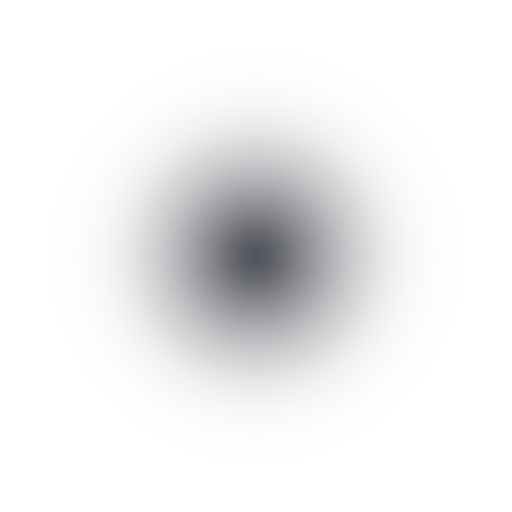
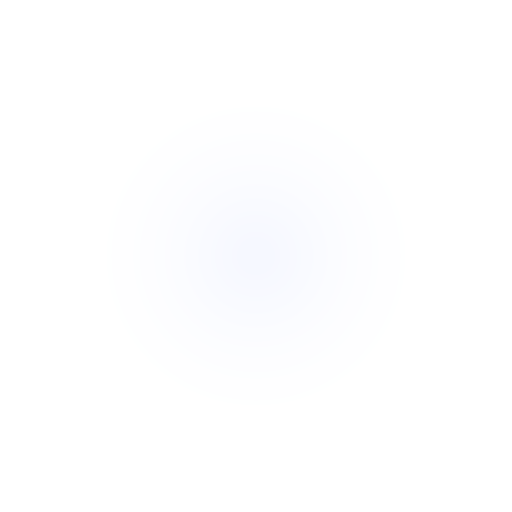
消除横切币面的灰边，不动手感
根因：硬币半径 0.33 而轻抛只有 0.10。一枚半径 0.33 的硬币要翻身，
侧过来那一刻圆心必须离地 0.33 以上——我们一直在渲染一件物理上
不可能的事，硬币下缘必然穿过地面那张半透明平面。

试过并被真机否掉的两条路（已写进注释，别再走）：
① 地面整体下沉 0.26 —— 灰边没了，但阴影离硬币太远，明显脱开
② 地面和阴影中间挖洞 —— 阴影变成环，观感变差；为补偿放大 1.6 倍
   （面积 2.5 倍），半透明覆盖太大，推近掉帧，连手感一起拖垮

现在的办法：相交躲不开，就让它盖上去也看不出来。

- 地面改用"亮色 + 低不透明度"。同一团光，暗色高不透明与亮色低不透明
  在黑底上完全一样（都约 70），盖到银色 230 上却是 82 对 228。
  灰边从差 148 降到差 2，而地面观感一点没变。
- 阴影按 cos(倾角)^1.8 减淡。真硬币侧过来投的是一条线不是一个圆，
  物理上本就如此；而硬币恰恰只在侧着时才穿过平面，躲不开的相交
  刚好落在阴影最淡的时刻。顺带让翻滚时的影子随转动一张一缩。

另外把阴影的 49 档材质改为搭场景时一次做好，不再在渲染回调里现造
——落地那几帧档位掉得最快，一帧连造几个会顿一下。

新增 ShadowTests 5 条，其中一条真的去读 ground_fade.png 中心像素，
算出它盖在银色上的结果，差超过 20 就红。

Claude-Session: https://claude.ai/code/session_013L5obD5FRvDZWpqWPEBMAm

Changed region(s): [[0.25, 0.25, 0.75, 0.75]]

diff --git a/CoinFlipTests/ShadowTests.swift b/CoinFlipTests/ShadowTests.swift
@@ -1,0 +1,95 @@
+// 地面与阴影的自动测试。
+//
+// 守的是那条"灰边"的修法。来龙去脉见 FlipAnimatorTests 里的长注释：
+// 硬币侧着飞过低空时，下缘必然穿过地面那张半透明平面——这是物理上躲不开的
+// （半径 0.33 的硬币要翻身，圆心必须离地 0.33 以上，而轻抛只有 0.10）。
+// 既然躲不开相交，就让它盖上去也看不出来。
+
+import XCTest
+import UIKit
+@testable import CoinFlip
+
+final class ShadowTests: XCTestCase {
+
+    /// 银色币面大致的亮度
+    private let coin: Double = 230
+
+    // MARK: - 地面：亮色 + 低不透明度
+
+    /// ★ 地面盖在硬币上时必须几乎看不出来。★
+    ///
+    /// 同样一团光，"暗色 + 高不透明度"和"亮色 + 低不透明度"在黑底上长得一样，
+    /// 盖到明亮的硬币上却天差地别。这条测试量的就是后一种情况。
+    func testGroundBarelyShowsWhenItCrossesTheCoin() throws {
+        let (colour, alpha) = try groundCentre()
+
+        let onCoin = colour * alpha + coin * (1 - alpha)
+        XCTAssertLessThan(
+            abs(onCoin - coin), 20,
+            "地面盖在硬币上会留下一道差 \(Int(abs(onCoin - coin))) 的灰边。"
+                + "把 ground_fade 的颜色调亮、peak 按比例调低，黑底上的观感不变")
+    }
+
+    /// 同时黑底上的光晕不能变——调亮颜色必须用降低不透明度来抵消
+    func testGroundGlowOnBlackIsUnchanged() throws {
+        let (colour, alpha) = try groundCentre()
+
+        // 原来是 (74,76,84) × 0.95，最亮的通道约 80
+        XCTAssertEqual(colour * alpha, 80, accuracy: 12,
+                       "黑底上的光晕变了，地面的明暗观感会跟着变")
+    }
+
+    /// 读出地面贴图正中心的颜色与不透明度（取最亮的通道）
+    private func groundCentre() throws -> (colour: Double, alpha: Double) {
+        let bundle = Bundle(for: ShadowTests.self)
+        let url = try XCTUnwrap(
+            Bundle.main.url(forResource: "ground_fade", withExtension: "png")
+                ?? bundle.url(forResource: "ground_fade", withExtension: "png"),
+            "找不到 ground_fade.png")
+        let image = try XCTUnwrap(UIImage(contentsOfFile: url.path)?.cgImage)
+
+        var pixel = [UInt8](repeating: 0, count: 4)
+        let context = try XCTUnwrap(CGContext(
+            data: &pixel, width: 1, height: 1, bitsPerComponent: 8, bytesPerRow: 4,
+            space: CGColorSpaceCreateDeviceRGB(),
+            bitmapInfo: CGImageAlphaInfo.premultipliedLast.rawValue))
+        // 只取正中间那一个像素
+        context.draw(image, in: CGRect(x: -CGFloat(image.width) / 2 + 0.5,
+                                       y: -CGFloat(image.height) / 2 + 0.5,
+                                       width: CGFloat(image.width),
+                                       height: CGFloat(image.height)))
+
+        let alpha = Double(pixel[3]) / 255
+        guard alpha > 0 else { return (0, 0) }
+        // 画出来的是预乘的，要除回去才是原色
+        let colour = Double(max(pixel[0], max(pixel[1], pixel[2]))) / alpha
+        return (colour, alpha)
+    }
+
+    // MARK: - 阴影：按倾角减淡
+
+    /// 硬币侧得越厉害，阴影越淡——真硬币侧过来投的是一条线，不是一个圆。
+    /// 这也正好让"躲不开的相交"发生在阴影最淡的时候。
+    func testShadowFadesAsTheCoinTilts() {
+        let flat = shadowOpacity(tilt: 0)
+        let half = shadowOpacity(tilt: 45)
+        let edge = shadowOpacity(tilt: 88)
+
+        XCTAssertGreaterThan(flat, half, "侧过来阴影没有变淡")
+        XCTAssertGreaterThan(half, edge, "快立起来了阴影还这么浓")
+        XCTAssertLessThan(edge, flat * 0.1, "硬币快立起来时阴影该几乎没有了")
+        XCTAssertLessThan(shadowOpacity(tilt: 60), flat * 0.35,
+                          "侧到 60 度时阴影还太浓，穿过地面那下会很明显")
+    }
+
+    /// 躺平时阴影要足够浓，承托感全靠它
+    func testFlatCoinKeepsItsShadow() {
+        XCTAssertGreaterThan(shadowOpacity(tilt: 0), 0.5, "躺平了阴影还这么淡，硬币像浮着")
+    }
+
+    /// 贴地、某个倾角时阴影的浓度（和 GroundShadow.update 里算的是同一套）
+    private func shadowOpacity(tilt: Float) -> Float {
+        GroundShadow.restOpacity
+            * pow(cos(tilt * .pi / 180), GroundShadow.tiltFade)
+    }
+}

diff --git a/CoinFlip/Scene/GroundShadow.swift b/CoinFlip/Scene/GroundShadow.swift
@@ -45,6 +45,16 @@ enum GroundShadow {
     static let highScale: Float = 1.70
     static let highOpacity: Float = 0.13
 
+    /// 硬币侧着时阴影淡成什么样。
+    ///
+    /// 真硬币侧过来时，投下的是一条细线，不是一个圆——挡住的光本来就少了。
+    /// 所以按 cos(倾角) 的幂次减淡，物理上是对的。
+    ///
+    /// 它同时解决一个麻烦：硬币只有在**侧着**的时候下缘才会穿过这张平面，
+    /// 而那正是阴影被减得最淡的时候。躲不开的相交，刚好发生在影响最小的时刻。
+    /// 数字越大减得越狠（1.0 是严格按投影面积算）。
+    static let tiltFade: Float = 1.8
+
     /// 地面和阴影要沉到硬币下方，正好托住它的底面
     static let groundY: Float = -CoinScene.coinThickness / 2
     static let shadowY: Float = -CoinScene.coinThickness / 2 + 0.006
@@ -88,6 +98,7 @@ enum GroundShadow {
                                                       order: Layer.shadow.rawValue))
         entity.transform.rotation = simd_quatf(angle: -.pi / 2, axis: [1, 0, 0])
         entity.position = [0, shadowY, 0]
+        _ = shadowMaterials          // 趁现在把 49 档材质都做好，别留到第一帧
         return entity
     }
 
@@ -98,10 +109,12 @@ enum GroundShadow {
     /// - Parameters:
     ///   - shadow: 阴影那一片
     ///   - coinPosition: 硬币此刻的位置
+    ///   - tiltDegrees: 硬币此刻离躺平多少度（0~90）
     ///   - lastStep: 上一次用的透明度档位，用来判断要不要换材质
     /// - Returns: 这一次的透明度档位，调用方存起来下次传进来
     static func update(_ shadow: ModelEntity,
                        coinPosition: SIMD3<Float>,
+                       tiltDegrees: Float,
                        lastStep: Int) -> Int {
 
         // 升得越高，t 越接近 1
@@ -114,11 +127,13 @@ enum GroundShadow {
         // 跟着硬币横向走（本版硬币只上下动，但留着以后用）
         shadow.position = [coinPosition.x, shadowY, coinPosition.z]
 
-        let opacity = restOpacity + (highOpacity - restOpacity) * eased
-        let step = Int((opacity * opacitySteps).rounded())
+        // 侧着的硬币投的影子小而淡，和它遮住的光成正比
+        let flat = cos(min(max(tiltDegrees, 0), 90) * .pi / 180)
+        let opacity = (restOpacity + (highOpacity - restOpacity) * eased)
+            * pow(flat, tiltFade)
+        let step = min(max(Int((opacity * opacitySteps).rounded()), 0), Int(opacitySteps))
         if step != lastStep {
-            shadow.model?.materials = [material(textureNamed: "shadow_soft",
-                                                opacity: Float(step) / opacitySteps)]
+            shadow.model?.materials = [shadowMaterials[step]]
         }
         return step
     }
@@ -128,6 +143,19 @@ enum GroundShadow {
         CoinScene.heightScale * Float(StyleProfile.silver.maxHeight)
 
     // MARK: - 材质
+
+    /// 每一档透明度的材质都**提前做好**，之后每帧只是换个引用。
+    ///
+    /// 原来是跨档时现做一个材质。平时没事，但硬币快落地那几帧档位掉得最快，
+    /// 一帧里要连做好几个——于是落地那一下偶尔会顿一帧。
+    /// 和之前那次卡顿是同一类毛病：在渲染回调里分配对象。
+    ///
+    /// 在搭场景时就全部做好（makeShadow 里点一下），这样这点开销落在
+    /// 建场景那一刻，而不是第一帧。
+    static let shadowMaterials: [RealityKit.Material] =
+        (0...Int(opacitySteps)).map {
+            material(textureNamed: "shadow_soft", opacity: Float($0) / opacitySteps)
+        }
 
     /// 贴图只读一次，之后一直复用——每帧重新解码贴图会很卡。
     private static var textureCache: [String: TextureResource] = [:]

diff --git a/CoinFlipTests/FlipAnimatorTests.swift b/CoinFlipTests/FlipAnimatorTests.swift
@@ -198,32 +198,26 @@ final class FlipAnimatorTests: XCTestCase {
                           "收平最快到了每秒 \(Int(fastest)) 度，看着像被拍平的")
     }
 
-    /// ★ 硬币不能沉进地面。★
-    ///
-    /// 歪着的硬币支点在边缘，圆心是被顶起来的。按 0 摆的话下半边会沉到
-    /// 地面那张圆片以下，地面就在币面上切出一道笔直的边——真机上出现过两次。
-    /// 这里直接算出最低点，它永远不能低于平面。
-    func testCoinNeverSinksIntoTheGround() {
-        for speed in [400.0, 1500.0, 3000.0] {
-            let plan = makePlan(speed: speed)
-            // ⚠ 必须用画面真正在用的换算尺度，不能用这个文件里的 scale——
-            //    高度是场景单位，硬币半径也是场景单位，两者得同一把尺子
-            let real = Double(CoinScene.heightScale)
-            for i in 0...400 {
-                let t = plan.endTime * Double(i) / 400
-                let pose = FlipAnimator.pose(at: t, plan: plan, heightScale: real)
-                let centre = pose.height + Double(CoinSceneView.pivotLift(tiltDegrees: pose.tiltDegrees))
-                // 圆心减去"圆心到最低点的距离"，就是最低点
-                let a = pose.tiltDegrees * .pi / 180
-                let half = Double(CoinScene.coinThickness) / 2
-                let lowest = centre - (Double(CoinScene.coinRadius) * sin(a) + half * cos(a))
-
-                XCTAssertGreaterThanOrEqual(
-                    lowest, -half - 1e-4,
-                    "速度 \(Int(speed))、第 \(String(format: "%.2f", t)) 秒时硬币沉进地面了")
-            }
-        }
-    }
+    // ⚠ 这里曾经有两条"硬币不能穿过地面"的测试，现在撤掉了，原因写在下面。
+    //
+    // 症状：硬币飞过低空时，币面上偶尔糊出一道笔直的灰边。
+    // 根因：硬币半径 0.33，而抛起只有 0.10～0.55。只要它侧着且离地不高，
+    //       下缘就穿过地面那张半透明的平面，平面便挡在镜头和那半边硬币之间。
+    //       这不是渲染的错——一枚半径 0.33 的硬币要翻身，侧过来那一刻圆心
+    //       必须离地 0.33 以上，否则它就是从桌子里穿过去的。我们一直在渲染
+    //       一件物理上不可能的事。
+    //
+    // 试过两条路，都被真机否掉了：
+    //   ① 地面整体下沉 0.26 —— 灰边没了，但阴影离硬币太远，明显脱开。
+    //   ② 地面和阴影中间挖洞 —— 灰边没了，但阴影形状变成环，观感变差；
+    //      而且为了补偿把阴影放大了 1.6 倍（面积 2.5 倍），半透明覆盖太大，
+    //      推近时掉帧，连手感一起拖垮。
+    //
+    // 所以现在**接受这个灰边**，当作已知问题记在任务清单里。真要根治，
+    // 得抬高最低抛掷高度（让轻抛在物理上成立），那会动到已经调好的手感，
+    // 留到 T23 整体调手感时一起定。
+    //
+    // 别再写"硬币不能穿过地面"这种断言了——它现在就是会穿，断言只会一直红。
 
     /// 倾角不能跳。落地那一刻飞行段和摇停段必须接得上。
     func testTiltIsContinuousAtLanding() {

diff --git a/CoinFlip/Scene/CoinSceneView.swift b/CoinFlip/Scene/CoinSceneView.swift
@@ -169,6 +169,8 @@ final class CoinSceneState {
     /// 硬币**最低点**离平面多高。阴影看的是它，不是圆心——
     /// 歪着的硬币圆心被顶得很高，但它明明还贴在地上。
     var contactHeight: Float = 0
+    /// 硬币此刻离躺平多少度（0~90）。阴影按它减淡。
+    var coinTilt: Float = 0
     /// 脱手那一刻硬币已经被提到多高。飞行时要从这个高度接上，不能跳。
     var launchLift: Float = 0
 
@@ -341,6 +343,15 @@ struct CoinSceneView: View {
         return CoinScene.coinRadius * sin(a) + h * cos(a) - h
     }
 
+    /// 硬币转到这个累计角度时，离躺平还有多少度（0~90）。
+    ///
+    /// 翻转是绕横轴转的，转过 180 度又是平的（只是换了一面），
+    /// 所以先对 180 取余，再把超过 90 的折回来。
+    static func tiltFromFlat(degrees: Double) -> Float {
+        let m = abs(degrees).truncatingRemainder(dividingBy: 180)
+        return Float(m > 90 ? 180 - m : m)
+    }
+
     /// 系统的"减少动态效果"开着没有。
     ///
     /// 每帧读一次。它是一个缓存好的系统设置，很便宜；
@@ -364,6 +375,7 @@ struct CoinSceneView: View {
             : SIMD3<Float>(coin.position.x, state.contactHeight, coin.position.z)
         state.shadowStep = GroundShadow.update(shadow,
                                                coinPosition: position,
+                                               tiltDegrees: Self.reduceMotion ? 0 : state.coinTilt,
                                                lastStep: state.shadowStep)
     }
 
@@ -579,6 +591,9 @@ struct CoinSceneView: View {
             //   不是渲染的错，所以修在这里，而不是去跟渲染顺序较劲。
             let contact = Float(pose.height) + carry
             state.contactHeight = contact
+            // 真实的倾角要从累计翻转角折算——pose.tiltDegrees 是摇停用的，
+            // 飞行中几乎是 0，拿它算阴影会让翻滚时的影子一直是满的
+            state.coinTilt = Self.tiltFromFlat(degrees: pose.degrees)
             coin.position = [0, contact + Self.pivotLift(tiltDegrees: pose.tiltDegrees), 0]
 
             if pose.isFinished {
@@ -619,6 +634,7 @@ struct CoinSceneView: View {
 
         let ratio = CoinScene.maxDragLift > 0 ? state.lift / CoinScene.maxDragLift : 0
         let tilt = CoinScene.dragTilt * ratio * .pi / 180
+        state.coinTilt = CoinScene.dragTilt * ratio
 
         // ★ 转角必须加在这里。★ 漏了的话，自旋停下的那一帧硬币会原地弹回正，
         //   和当初落地时突然扭 72 度是同一个坑。

diff --git a/scripts/make_assets.py b/scripts/make_assets.py
@@ -572,8 +572,20 @@ def make_ground_and_shadow():
     #
     # 它必须是半透明的：半透明的东西不写深度，才不会挡住穿过它的硬币。
     # 它和阴影谁先画，不靠透明度决定，由 GroundShadow 里的排序分组指定。
-    radial_png("ground_fade", 512, color=(74, 76, 84),
-               peak=0.95, falloff=0.34, power=1.6)
+    #
+    # ★ 用"亮色 + 低不透明度"，不要"暗色 + 高不透明度"。★
+    #
+    # 这两种在**黑底上看起来完全一样**（都是 0.31×225 ≈ 0.95×74 ≈ 70），
+    # 但盖到明亮的硬币上时天差地别：
+    #
+    #   暗色 0.95 → 把银色的 230 直接换成 82，差 148，就是那道"缺了一块"的灰边
+    #   亮色 0.31 → 0.31×225 + 0.69×230 = 228，差 2，看不见
+    #
+    # 硬币侧着飞过低空时下缘会穿过这张平面，平面就挡在镜头和那半边硬币之间。
+    # 这是物理上躲不开的（半径 0.33 的硬币要翻身，圆心必须离地 0.33 以上，
+    # 而轻抛只有 0.10）。既然躲不开，就让它盖上去也看不出来。
+    radial_png("ground_fade", 512, color=(225, 231, 255),
+               peak=0.313, falloff=0.34, power=1.6)
 
     # 阴影：纯黑，中间最浓，边缘很散，压在地面上。
     # 硬币越高，这张图会被放得越大、调得越淡，自然就"变大变散变淡"。

diff --git a/docs/极简抛硬币App_最小可用版任务清单.md b/docs/极简抛硬币App_最小可用版任务清单.md
@@ -69,6 +69,18 @@
 
 ---
 
+## 2.5 已知问题
+
+| 问题 | 情况 | 为什么还没修 |
+| --- | --- | --- |
+| **硬币偶尔有横切的灰边** | 飞过低空、同时侧着的时候，地面那张半透明平面挡在镜头和下半边硬币之间。低抛时更容易看到 | 根因是**我们在渲染一件物理上不可能的事**：硬币半径 0.33，而轻抛只有 0.10——一枚半径 0.33 的硬币要翻身，侧过来那一刻圆心必须离地 0.33 以上。试过两条路都被真机否掉：地面下沉 0.26 会让阴影明显脱开；中间挖洞会把阴影变成环、且放大后掉帧拖垮手感。真要根治得抬高最低抛掷高度，那会动到已经认可的手感，**留到 T23 调手感时一起定** |
+
+两个较轻的缓解手段，没做，想要随时说：
+- 把地面的透明度整体调低（`make_assets.py` 里 `ground_fade` 的 `peak`，0.95 → 0.45 左右）。灰边的对比度跟着减半，光晕只是淡一些，不动几何、不影响帧率。
+- 把 `minHeight` 从 0.12 抬到 0.2 左右。不能根治，但能明显减少轻抛时撞上的时长。
+
+---
+
 ## 3. T23 真机验收单
 
 **依赖**：T01 的真机部分（手机连上、开发者模式、Team 签名）
